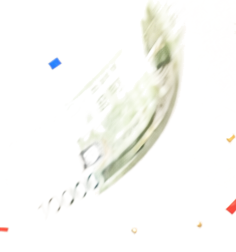
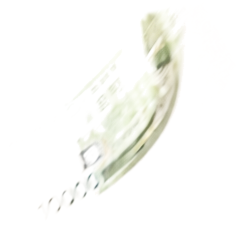
refactor: 지폐와 컨페티 단일 자산 분리

diff --git a/scripts/extract_motion_assets.py b/scripts/extract_motion_assets.py
@@ -27,11 +27,35 @@ def paper_alpha(image: Image.Image, keep_dark: bool = True, keep_gold: bool = Tr
     return rgba
 
 
-def crop_note(source: Image.Image, box: tuple[int, int, int, int], name: str) -> None:
+def crop_note(
+    source: Image.Image,
+    box: tuple[int, int, int, int],
+    polygon: list[tuple[int, int]],
+    name: str,
+) -> None:
     note = paper_alpha(source.crop(box), keep_dark=True, keep_gold=False)
-    alpha = note.getchannel("A").filter(ImageFilter.GaussianBlur(0.45))
-    note.putalpha(alpha)
+    cleaned_pixels = []
+    for red, green, blue, alpha in note.getdata():
+        saturated_confetti = max(red, green, blue) - min(red, green, blue) > 70
+        cleaned_pixels.append((red, green, blue, 0 if saturated_confetti else alpha))
+    note.putdata(cleaned_pixels)
+    alpha = note.getchannel("A")
+    shape_mask = Image.new("L", note.size, 0)
+    ImageDraw.Draw(shape_mask).polygon(polygon, fill=255)
+    shape_mask = shape_mask.filter(ImageFilter.GaussianBlur(1.4))
+    note.putalpha(ImageChops.multiply(alpha, shape_mask).filter(ImageFilter.GaussianBlur(0.45)))
     note.save(PUBLIC / name)
+
+
+def crop_confetti(source: Image.Image, box: tuple[int, int, int, int], name: str) -> None:
+    piece = paper_alpha(source.crop(box), keep_dark=False, keep_gold=False)
+    pixels = []
+    for red, green, blue, alpha in piece.getdata():
+        chroma = max(red, green, blue) - min(red, green, blue)
+        pixels.append((red, green, blue, alpha if chroma > 42 else 0))
+    piece.putdata(pixels)
+    piece.putalpha(piece.getchannel("A").filter(ImageFilter.GaussianBlur(0.35)))
+    piece.save(PUBLIC / name)
 
 
 severance = Image.open(PUBLIC / "severance-background-selected.png")
@@ -104,8 +128,30 @@ note_boxes = [
     (0, 1260, 266, 1618),
     (645, 1250, 853, 1535),
 ]
-for index, box in enumerate(note_boxes, start=1):
-    crop_note(severance, box, f"money-note-{index}.png")
+note_polygons = [
+    [(22, 62), (119, 30), (181, 49), (148, 137), (55, 171), (17, 127)],
+    [(0, 112), (139, 16), (202, 0), (235, 64), (174, 211), (24, 236)],
+    [(8, 61), (136, 39), (177, 104), (39, 139)],
+    [(32, 73), (80, 36), (184, 89), (145, 151), (45, 130)],
+    [(0, 106), (38, 81), (104, 145), (82, 194), (10, 164)],
+    [(24, 0), (91, 0), (116, 49), (69, 92), (29, 72)],
+    [(34, 96), (104, 67), (236, 111), (211, 181), (93, 171)],
+    [(0, 77), (94, 0), (239, 151), (139, 244), (0, 171)],
+    [(17, 66), (88, 39), (207, 94), (207, 171), (68, 135)],
+]
+for index, (box, polygon) in enumerate(zip(note_boxes, note_polygons), start=1):
+    crop_note(severance, box, polygon, f"money-note-{index}.png")
+
+confetti_boxes = [
+    (682, 557, 716, 607),
+    (718, 582, 764, 634),
+    (534, 606, 561, 650),
+    (562, 608, 604, 661),
+    (251, 604, 294, 655),
+    (447, 894, 486, 942),
+]
+for index, box in enumerate(confetti_boxes, start=1):
+    crop_confetti(severance, box, f"confetti-piece-{index}.png")
 
 pending = Image.open(PUBLIC / "pending-background-selected.png")
 pending_fx = paper_alpha(pending, keep_dark=True, keep_gold=False)
